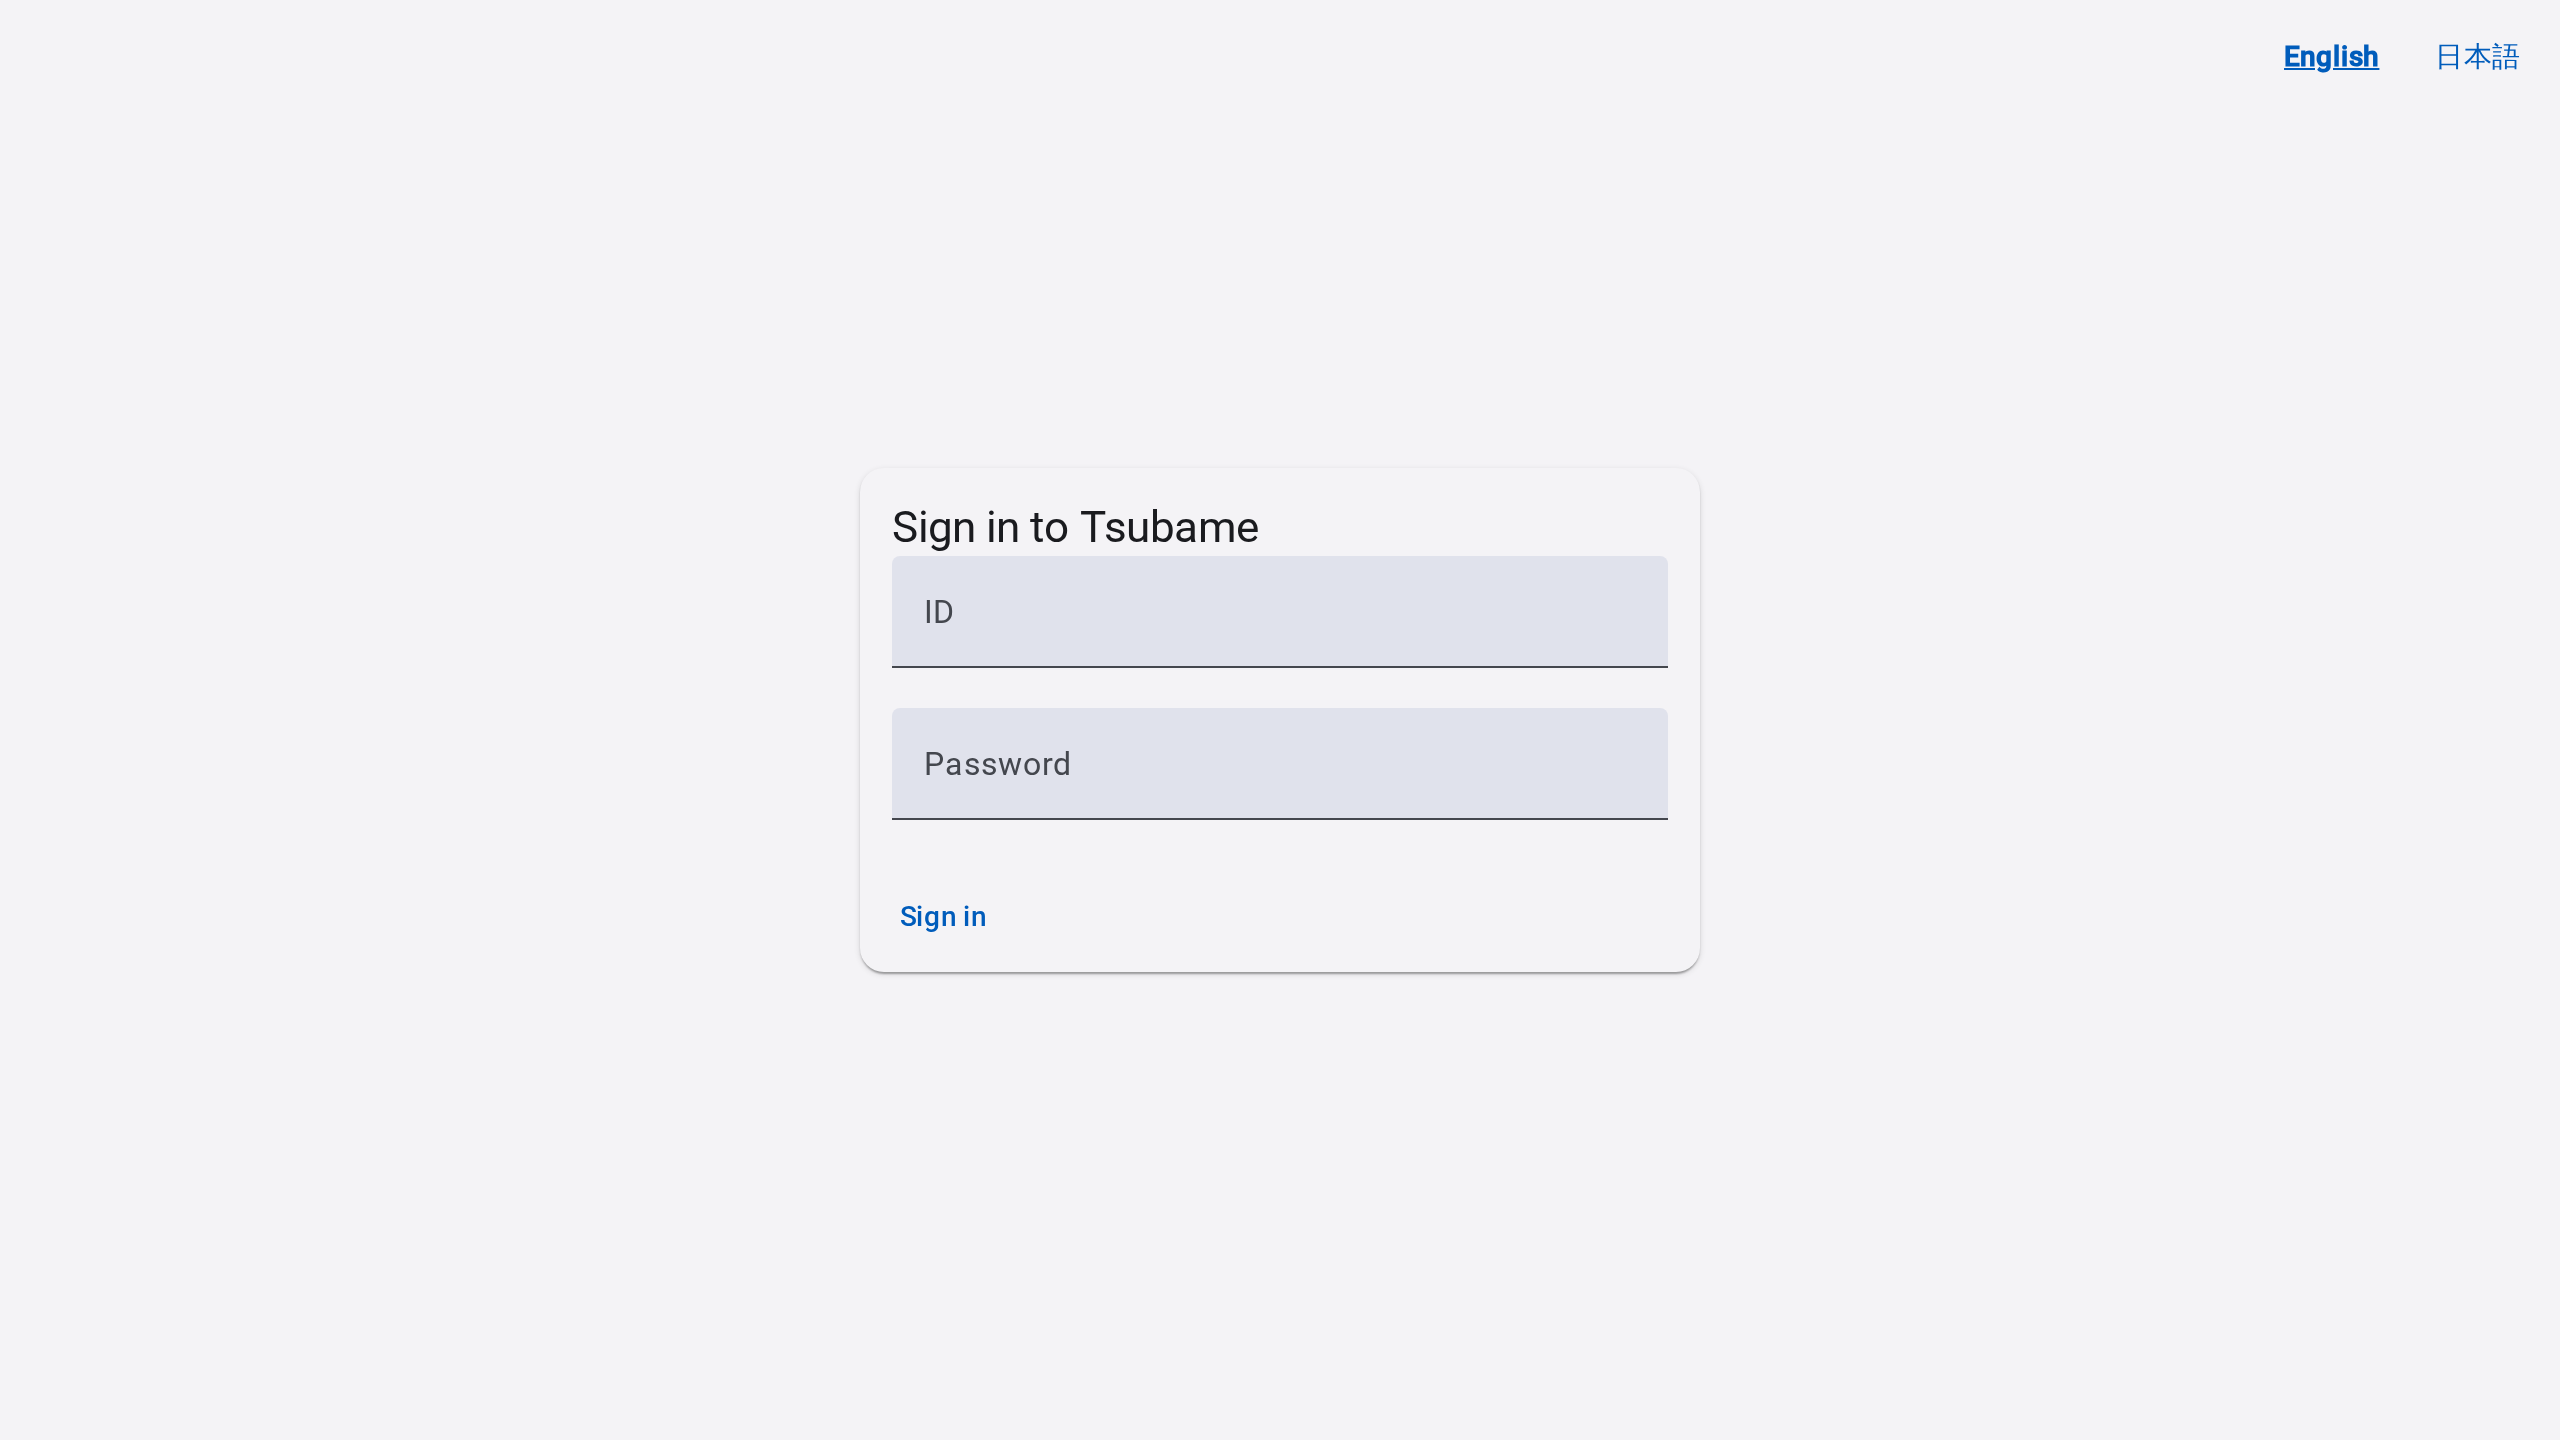
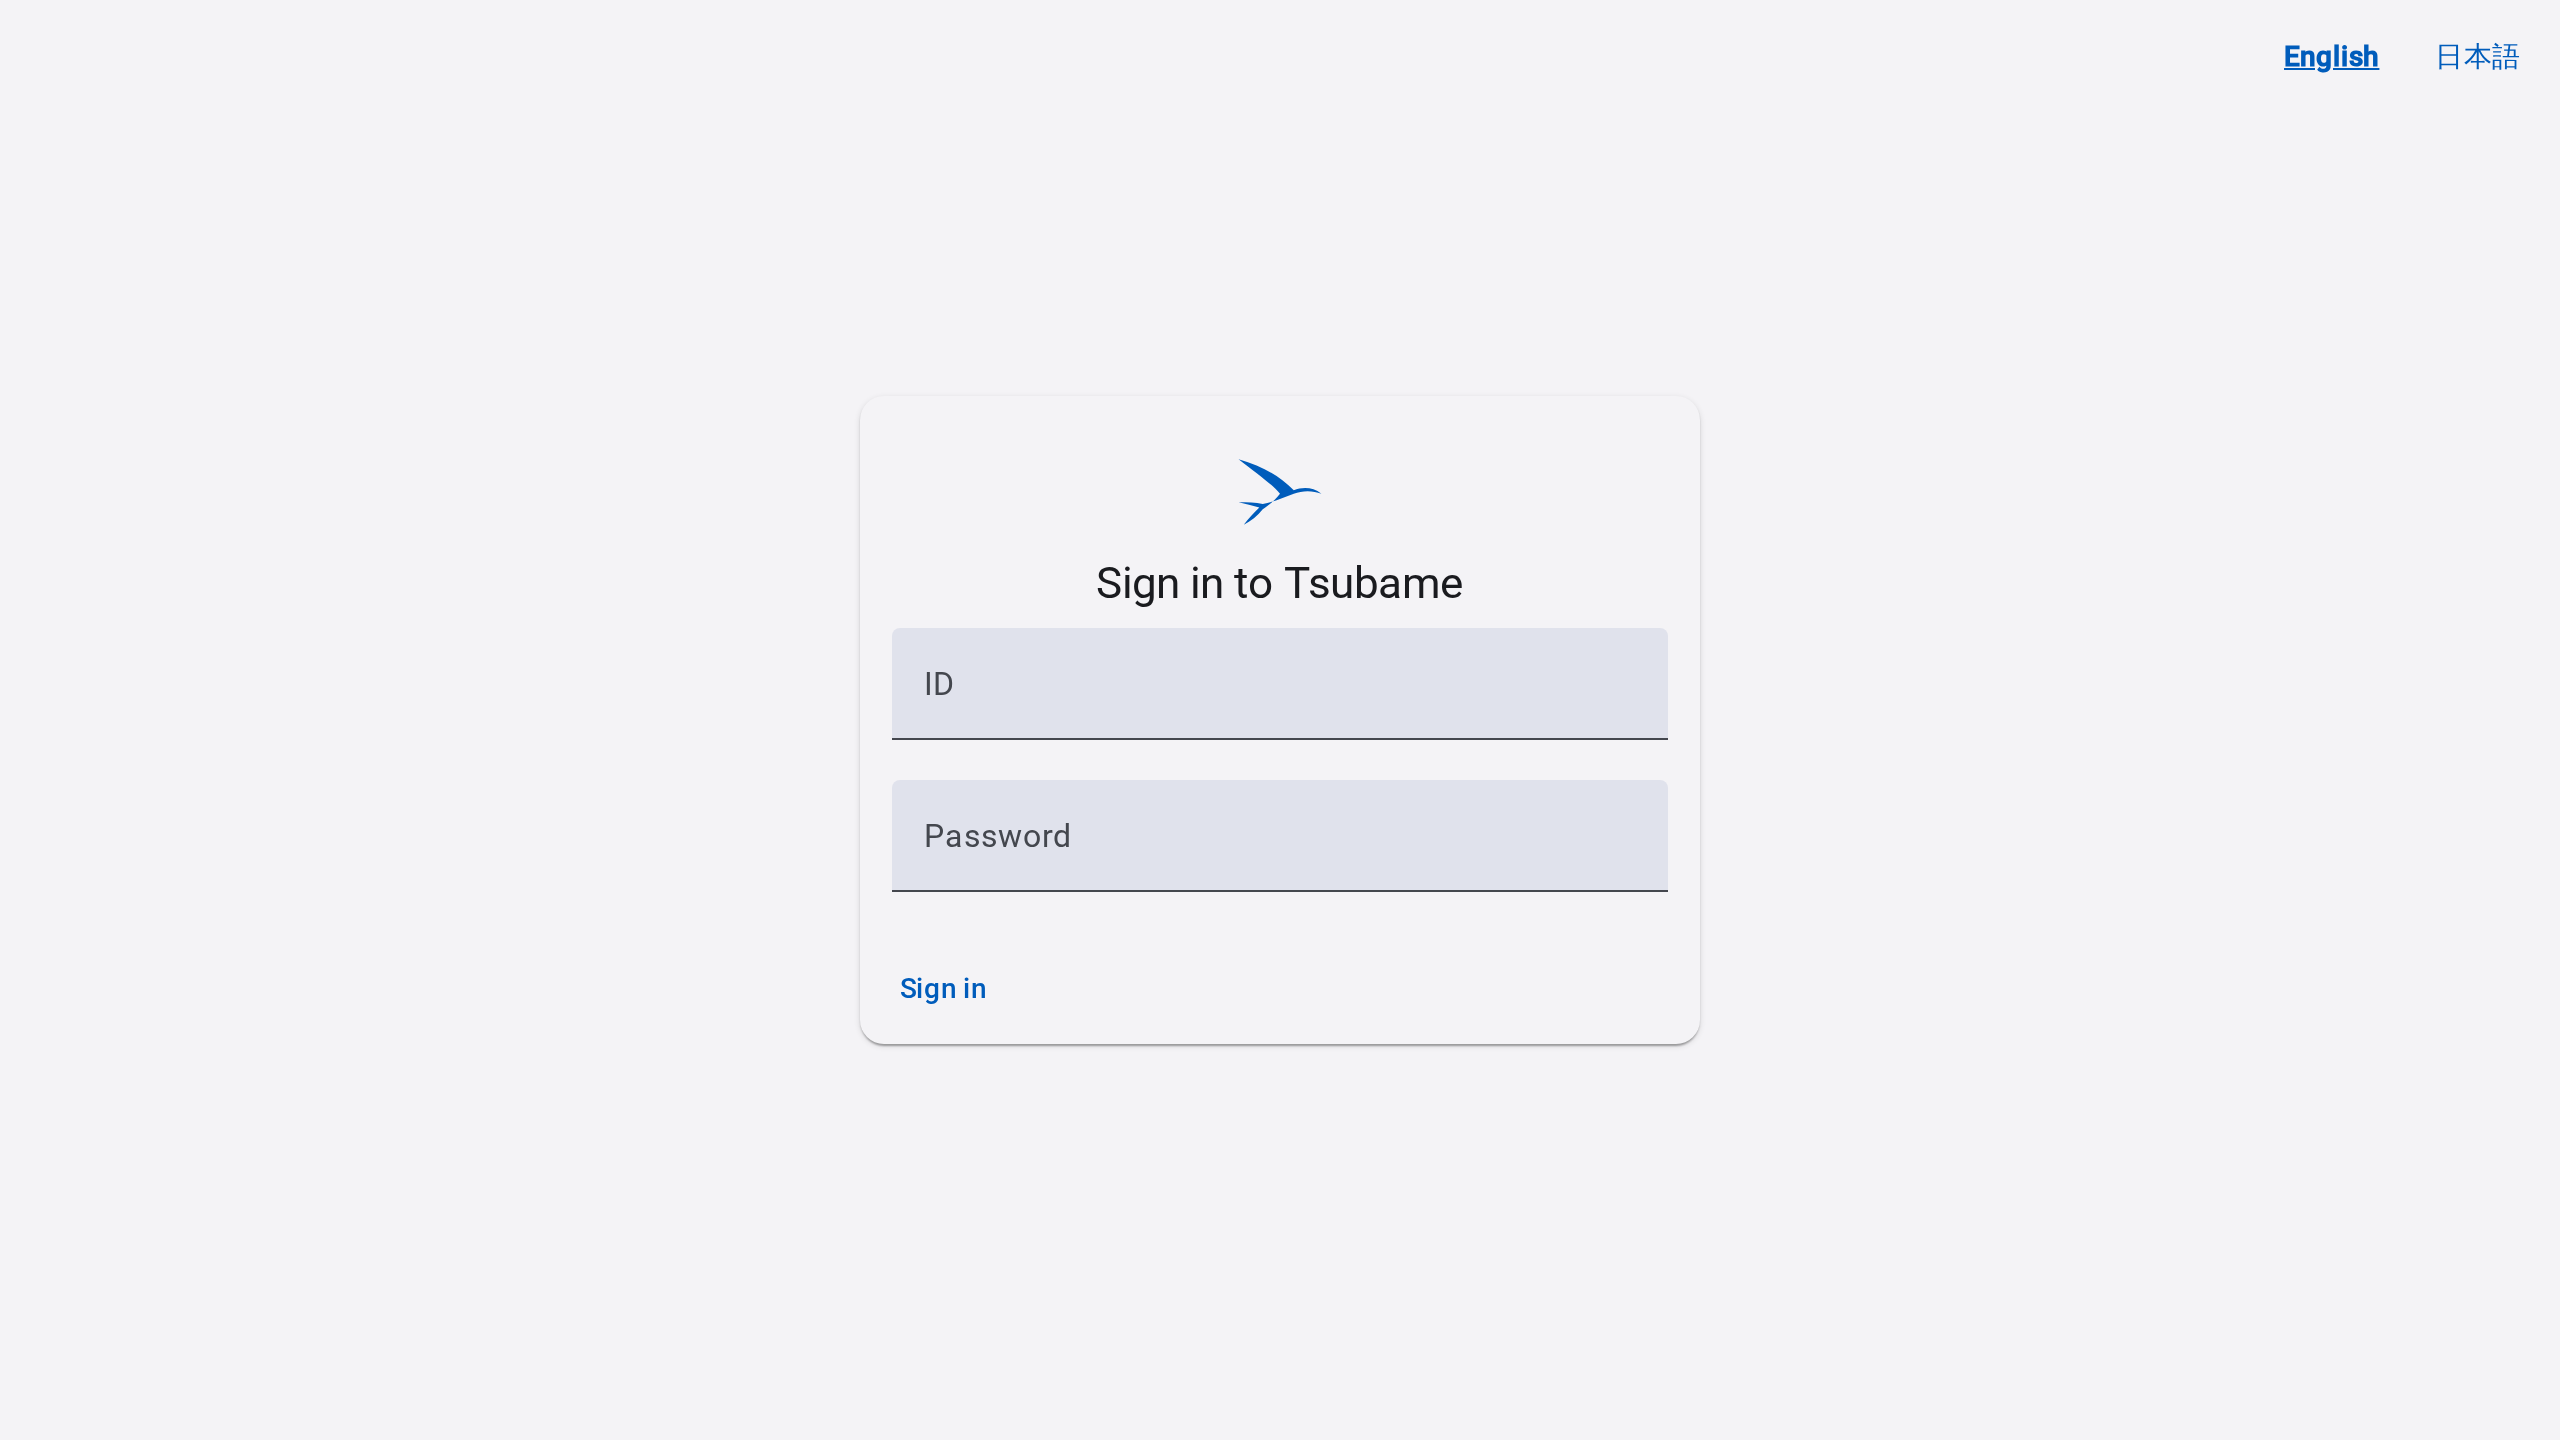
Put the swallow on the sign-in screen and in the tab
The one screen with no shell around it had nothing of the brand on it. The
mark is inlined in the card, above the title, painting with `currentColor`
so it takes the card's ink and cannot drift from `brand/tsubame.svg` - the
brand's own README says inlining is what that file is for. Decorative: the
title beside it is what a screen reader reads.

The tab icon was still Angular's. `public/favicon.svg` is
`brand/tsubame-16.svg` - the small-size drawing, because a tab renders at
16px and the larger mark's tail fork closes up there - with its colour
stated rather than inherited, since a tab strip is not a container that
offers one: near-black on a light strip, near-white on a dark one.
`public/favicon.ico` is regenerated from the same SVG at 16/32/48px by
`frontend/e2e/favicon.mjs`, which rasterises with the Chromium the browser
suite already uses and packs the PNGs into one icon, so the fallback for
browsers without SVG icons is derived rather than hand-drawn.

CloudFront needs no change for either: the app's routing sends only paths
without a file extension to `index.html`.

413 specs, lint, prettier and the production build pass; `sign-in.png` is the
regenerated picture.

Changed region(s): [[0.3438, 0.3125, 0.5625, 0.4375], [0.3438, 0.5, 0.4375, 0.5938], [0.3438, 0.625, 0.375, 0.6875]]

diff --git a/frontend/src/app/core/auth/login/login.html b/frontend/src/app/core/auth/login/login.html
@@ -2,7 +2,19 @@
   <app-language-switcher class="switcher" />
   <mat-card class="login-card">
     <mat-card-header>
-      <mat-card-title>{{ 'auth.signInTitle' | transloco }}</mat-card-title>
+      <!-- The mark, inline: it paints with `currentColor`, so it takes the card's own ink and
+           needs no second file to stay in step with `brand/tsubame.svg`. Decorative here - the
+           title beside it is what a screen reader reads. -->
+      <svg class="mark" viewBox="0 0 64 64" aria-hidden="true" focusable="false">
+        <path
+          fill="currentColor"
+          transform="translate(32 32) scale(1.15) translate(-38 -27)"
+          d="M62 28 C57 24 51 24 46 26 C38 18 28 12 14 8 C24 16 33 22 38 28 C34 33 31 35 28 37 C25 41 21 44 17 46 C20 42 23 39 26 36 C22 35 18 34 14 33 C19 33 24 33 28 34 C34 33 40 30 46 28 C51 26 57 26 62 28 Z"
+        />
+      </svg>
+      <div class="titles">
+        <mat-card-title>{{ 'auth.signInTitle' | transloco }}</mat-card-title>
+      </div>
     </mat-card-header>
     <mat-card-content>
       @if (!passwordLogin()) {

diff --git a/frontend/src/app/core/auth/login/login.scss b/frontend/src/app/core/auth/login/login.scss
@@ -16,6 +16,27 @@
 
 .login-card {
   width: min(420px, 100%);
+
+  /// The mark sits above the title rather than beside it: it is the first thing on the one screen
+  /// that has no shell around it, and a card this narrow has no room for both.
+  mat-card-header {
+    flex-direction: column;
+    align-items: center;
+    gap: 8px;
+    padding-bottom: 8px;
+  }
+
+  .mark {
+    width: 48px;
+    height: 48px;
+    /// The brand's own ink, not the text colour under it: a mark at text weight reads as a
+    /// bullet, and this one is the only picture on the screen.
+    color: var(--mat-sys-primary);
+  }
+
+  .titles {
+    text-align: center;
+  }
 }
 
 .full-width {

diff --git a/frontend/src/index.html b/frontend/src/index.html
@@ -8,6 +8,9 @@
     <!-- The CMS is an editor's screen, not a public site (see `infra/frontend.tf` for the header
          that enforces this): nothing here belongs in a search index. -->
     <meta name="robots" content="noindex, nofollow" />
+    <!-- The SVG first: a browser that understands one uses it, and only the ones that do not
+         fall back to the `.ico` beside it. -->
+    <link rel="icon" type="image/svg+xml" href="favicon.svg" />
     <link rel="icon" type="image/x-icon" href="favicon.ico" />
   </head>
   <body>

diff --git a/CONTRIBUTING.md b/CONTRIBUTING.md
@@ -41,7 +41,7 @@ two binaries read.
 that catches what the unit tests cannot: it drives the interface, the API and the storage
 together, and more than one real bug in this project was only visible there.
 
-## The pictures in the README
+## The pictures in the README, and the favicon
 
 `doc/images/*.png` are generated rather than drawn. `scripts/screenshots.sh` starts a CMS with
 throwaway data, seeds a small site (four categories, five articles, one page, four images - see
@@ -51,6 +51,11 @@ Chromium as the browser suite and the same two free ports.
 Run it when a change moves something a reader would see, and commit what it writes: a picture that
 no longer matches the screen is worse than no picture. If a screen looks wrong while you are at it,
 that is usually the cheapest way to find a layout bug - two of them were found this way.
+
+The tab icon is derived the same way: `cd frontend && node e2e/favicon.mjs` rasterises
+`brand/tsubame-16.svg` (16/32/48px) into `frontend/public/favicon.ico`, beside the `favicon.svg`
+that carries the same mark for the browsers that read one. Change the brand, run that, and the tab
+follows.
 
 ## The conventions that matter
 
